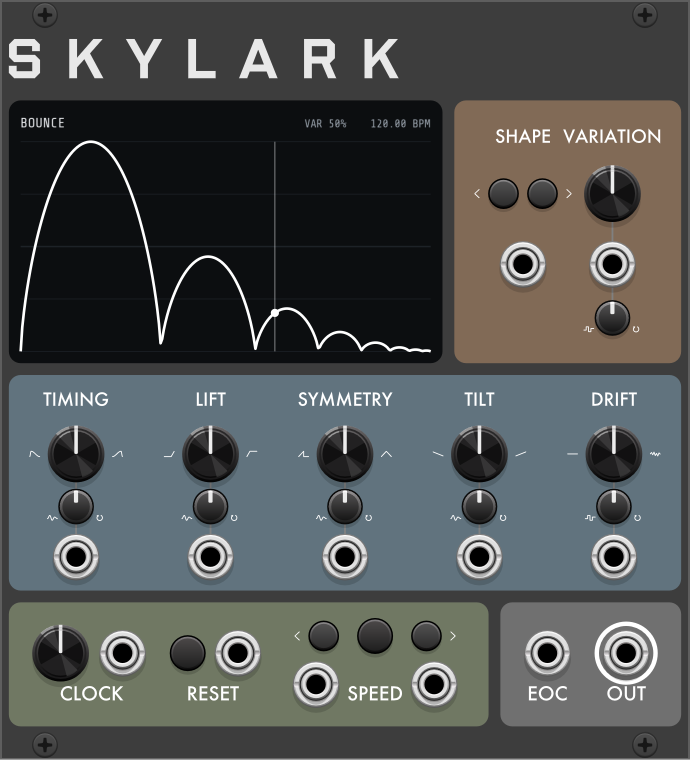
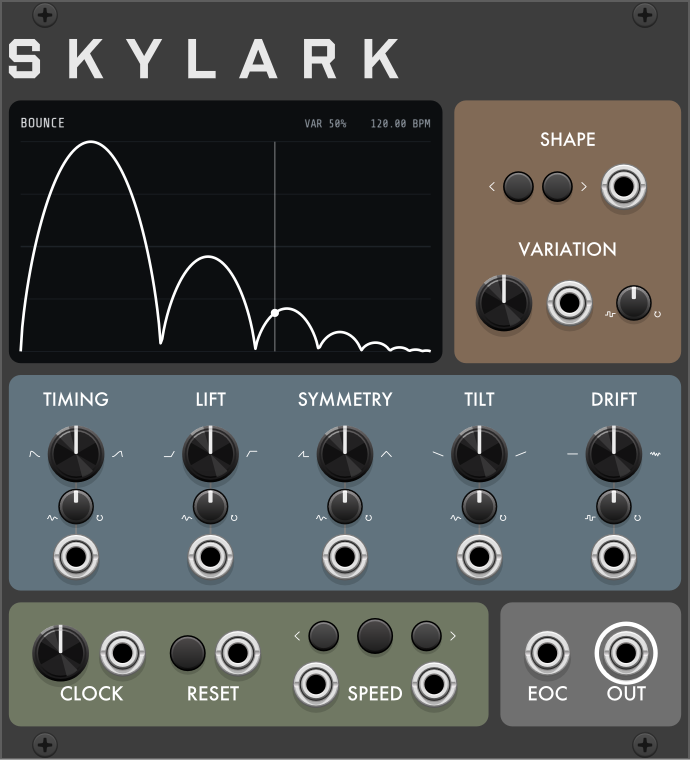
Skylark: stack SHAPE over VARIATION in the top plate, with more room

Changed region(s): [[0.6696, 0.1513, 0.9435, 0.4539]]

diff --git a/src/Skylark.cpp b/src/Skylark.cpp
@@ -532,12 +532,12 @@ struct SkylarkWidget : ModuleWidget {
 		display->module = module;
 		addChild(display);
 
-		addParam(createParamCentered<RoundBlackKnob>(mm2px(Vec(103.71, 32.791)), module, Skylark::VARIATION_PARAM));
-		addInput(createInputCentered<PJ301MPort>(mm2px(Vec(103.71, 44.753)), module, Skylark::VARIATION_INPUT));
-		addInput(createInputCentered<PJ301MPort>(mm2px(Vec(88.56, 44.753)), module, Skylark::SHAPE_INPUT));
-		addParam(createParamCentered<Trimpot>(mm2px(Vec(103.71, 53.844)), module, Skylark::VARIATION_CV_PARAM));
-		addParam(createParamCentered<TL1105>(mm2px(Vec(85.26, 32.791)), module, Skylark::SHAPE_PREV_PARAM));
-		addParam(createParamCentered<TL1105>(mm2px(Vec(91.86, 32.791)), module, Skylark::SHAPE_NEXT_PARAM));
+		addParam(createParamCentered<TL1105>(mm2px(Vec(87.79, 31.6)), module, Skylark::SHAPE_PREV_PARAM));
+		addParam(createParamCentered<TL1105>(mm2px(Vec(94.39, 31.6)), module, Skylark::SHAPE_NEXT_PARAM));
+		addInput(createInputCentered<PJ301MPort>(mm2px(Vec(105.64, 31.6)), module, Skylark::SHAPE_INPUT));
+		addParam(createParamCentered<RoundBlackKnob>(mm2px(Vec(85.343, 51.3)), module, Skylark::VARIATION_PARAM));
+		addInput(createInputCentered<PJ301MPort>(mm2px(Vec(96.468, 51.3)), module, Skylark::VARIATION_INPUT));
+		addParam(createParamCentered<Trimpot>(mm2px(Vec(107.343, 51.3)), module, Skylark::VARIATION_CV_PARAM));
 
 		addParam(createParamCentered<RoundBlackKnob>(mm2px(Vec(12.884, 76.868)), module, Skylark::TIMING_PARAM));
 		addParam(createParamCentered<RoundBlackKnob>(mm2px(Vec(35.652, 76.868)), module, Skylark::LIFT_PARAM));
